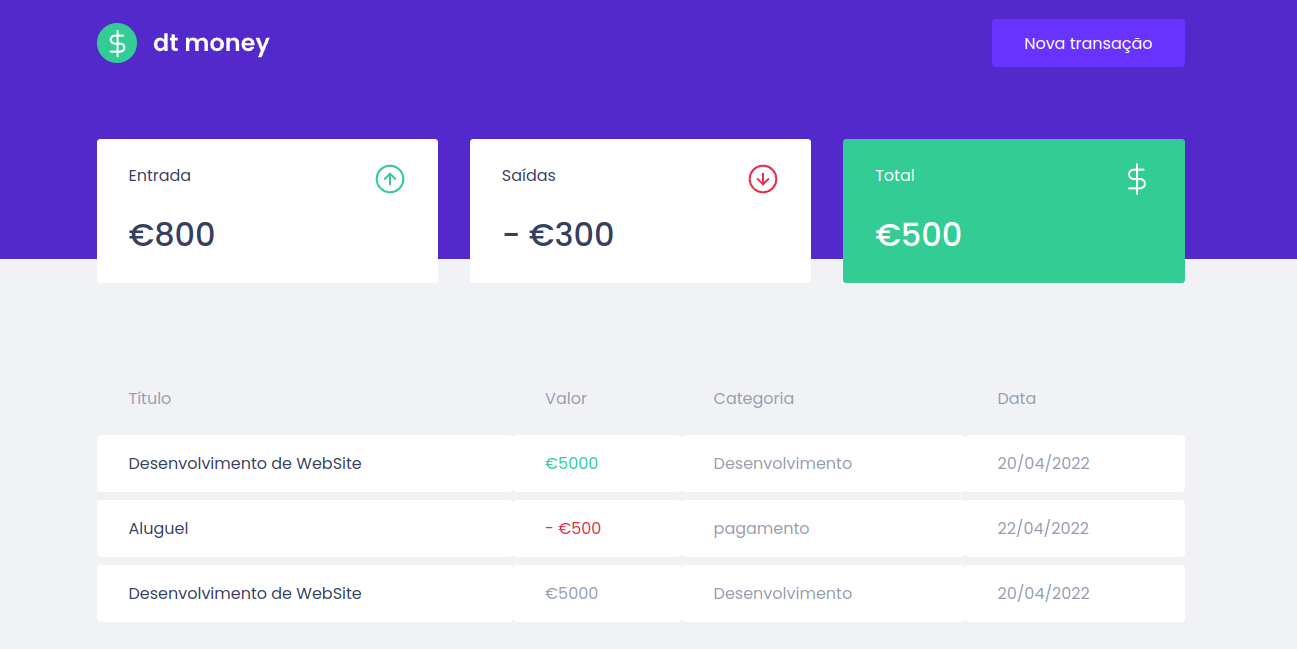
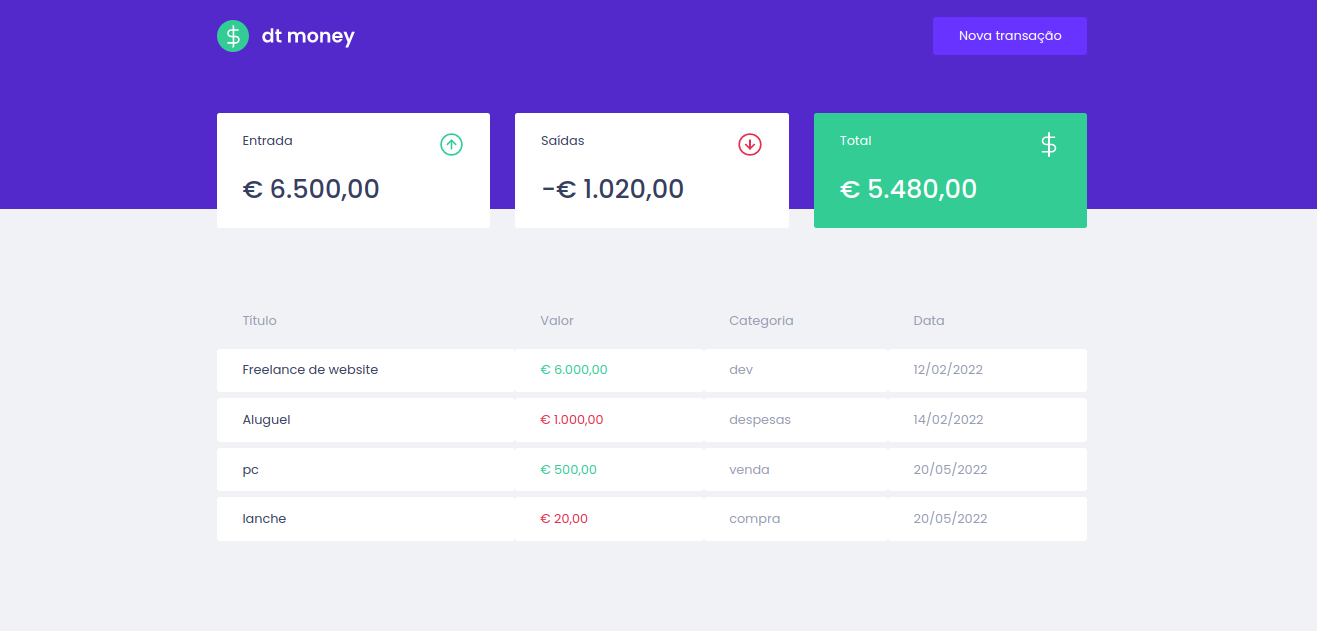
readme

diff --git a/src/components/Summary/index.tsx b/src/components/Summary/index.tsx
@@ -7,7 +7,31 @@ import { TransactionsContext } from "../../TransactionsContext";
 
 
 export function Summary(){
-const transactions = useContext(TransactionsContext);
+const {transactions} = useContext(TransactionsContext);
+
+// const totalDeposits = transactions.reduce((acc, transaction)=>{
+//     if(transaction.type == 'deposit'){
+//         return acc + transaction.amount;
+//     }
+//     return acc;
+// }, 0)
+
+const sumary = transactions.reduce((acc, transaction)=>{
+    if(transaction.type == 'deposit'){
+        acc.deposits += transaction.amount;
+        acc.total += transaction.amount;
+    }else{
+        acc.withdraws += transaction.amount;
+        acc.total -= transaction.amount;
+    }
+
+    return acc;
+
+}, {
+    deposits:0,
+    withdraws:0,
+    total:0
+})
 
 console.log(transactions);
 
@@ -20,7 +44,10 @@ console.log(transactions);
                     <img src={IncomeImg} alt="Entradas" />
                 </header>
                 <strong>
-                    €800
+                {new Intl.NumberFormat('pt', {
+                    style: 'currency',
+                    currency: 'EUR'
+                    }).format(sumary.deposits)}
                 </strong>
             </div>
 
@@ -30,7 +57,11 @@ console.log(transactions);
                     <img src={OutcomeImg} alt="Entradas" />
                 </header>
                 <strong>
-                    - €300
+                    -
+                {new Intl.NumberFormat('pt', {
+                    style: 'currency',
+                    currency: 'EUR'
+                    }).format(sumary.withdraws)}
                 </strong>
             </div>
 
@@ -40,7 +71,10 @@ console.log(transactions);
                     <img src={TotalImg} alt="Total" />
                 </header>
                 <strong>
-                    €500
+                {new Intl.NumberFormat('pt', {
+                    style: 'currency',
+                    currency: 'EUR'
+                    }).format(sumary.total)}
                 </strong>
             </div>
 

diff --git a/src/components/NewTransactionModal/index.tsx b/src/components/NewTransactionModal/index.tsx
@@ -1,9 +1,10 @@
-import { FormEvent, useState } from 'react';
+import { FormEvent, useState, useContext } from 'react';
 import Modal from 'react-modal'
 import CloseImg from '../../assets/close.svg'
 import IncomeImg from '../../assets/income.svg'
 import OutcomeImg from '../../assets/outcome.svg'
 import { api } from '../../services/api';
+import { TransactionsContext } from '../../TransactionsContext';
 import { Container, TransactionTypeContainer, RadioBox } from './styles';
 
 interface NewTransactionModal{
@@ -13,21 +14,29 @@ interface NewTransactionModal{
 
 export function NewTransactionModal ({isOpen, onRequestClose}: NewTransactionModal){
   const [title, setTitle] = useState('');
-  const [value, setValue] = useState(0);
+  const [amount, setAmount] = useState(0);
   const [category, setCategory] = useState('');  
   const [type, setType] = useState('deposit');
 
-    function handleCreateNewTransation(event: FormEvent){
+  const { createTransaction } = useContext(TransactionsContext);
+
+    async function handleCreateNewTransation(event: FormEvent){
       event.preventDefault();
 
-      const data = {
+     await createTransaction({
         title,
-        value,
+        amount,
         category,
         type
-      };
+      });
 
-      api.post('/transactions', data);
+      
+      setTitle('');
+      setAmount(0);
+      setCategory('');
+      setType('deposit');
+
+      onRequestClose();
 
     };
     
@@ -55,8 +64,8 @@ export function NewTransactionModal ({isOpen, onRequestClose}: NewTransactionMod
 
           <input type="number" 
                  placeholder='Valor'
-                 value={value}
-                 onChange={event => setValue(Number(event.target.value))}   
+                 value={amount}
+                 onChange={event => setAmount(Number(event.target.value))}   
           />
 
 

diff --git a/src/TransactionsContext.tsx b/src/TransactionsContext.tsx
@@ -1,7 +1,6 @@
 import { createContext, ReactNode, useEffect, useState } from "react";
 import { api } from "./services/api";
 
-export const TransactionsContext = createContext<Transaction[]>([]);
 
 interface Transaction {
     id: number;
@@ -12,9 +11,25 @@ interface Transaction {
     createdAt: string;
 }
 
+interface TransactionInput{
+    title: string;
+    amount: number;
+    type: string;
+    category: string;
+}
+
 interface TransactionsProviderProps{
     children: ReactNode;
 }
+
+interface TransactionsContextData{
+    transactions: Transaction[];
+    createTransaction: (transaction: TransactionInput)=>Promise<void>;
+}
+
+export const TransactionsContext = createContext<TransactionsContextData>(
+    {} as TransactionsContextData
+    );
 
 
  export function TransactionsProvider({children}: TransactionsProviderProps){
@@ -26,8 +41,25 @@ interface TransactionsProviderProps{
     }, [])
 
 
+
+ async function createTransaction(transactionInput: TransactionInput){
+
+   const response =  await api.post('/transactions', {
+       ...transactionInput,
+        createdAt: new Date(),
+    });
+
+    const { fakedb } = response.data;
+
+    setTransactions([
+        ...transactions,
+        fakedb
+    ])
+
+ }
+
     return(
-        <TransactionsContext.Provider value={transactions}>
+        <TransactionsContext.Provider value={{transactions, createTransaction}}>
             {children}
         </TransactionsContext.Provider>
     );

diff --git a/src/components/TransactionsTable/index.tsx b/src/components/TransactionsTable/index.tsx
@@ -4,7 +4,7 @@ import { Container } from "./styles";
 
 
 export function TransactionTable(){
-const transactions = useContext(TransactionsContext);
+const {transactions} = useContext(TransactionsContext);
 
     return(
         <Container>
